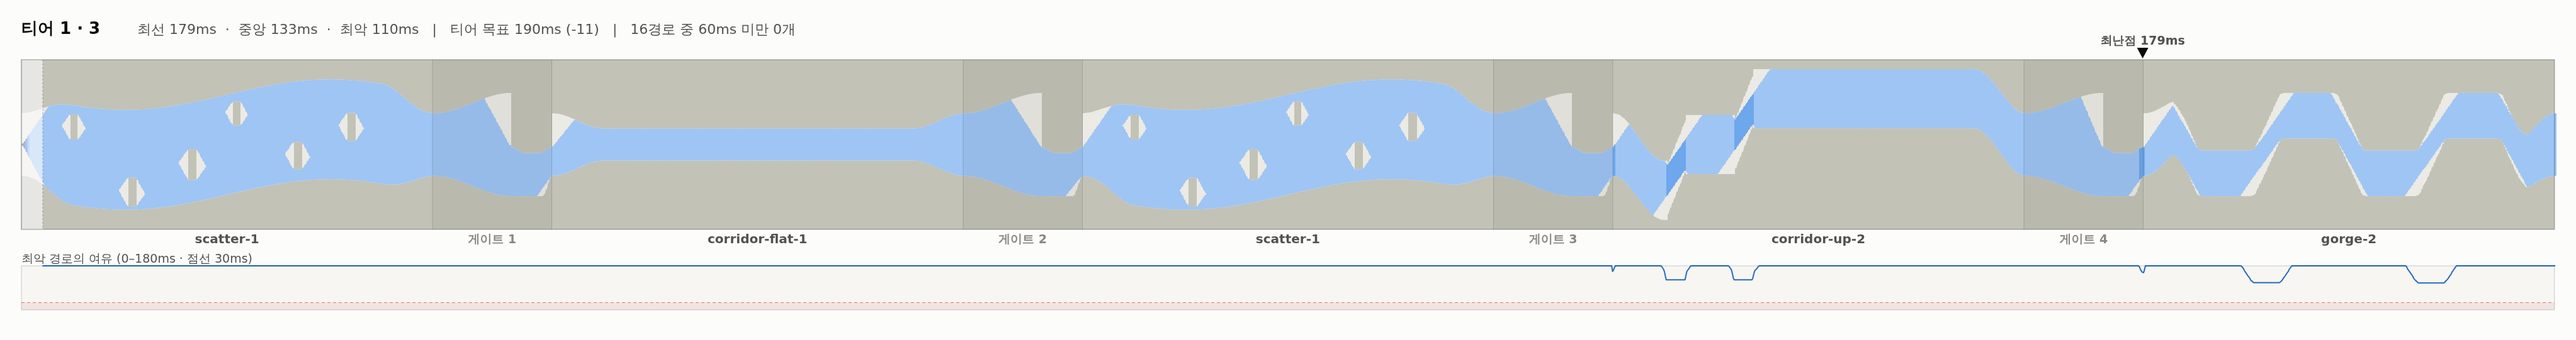
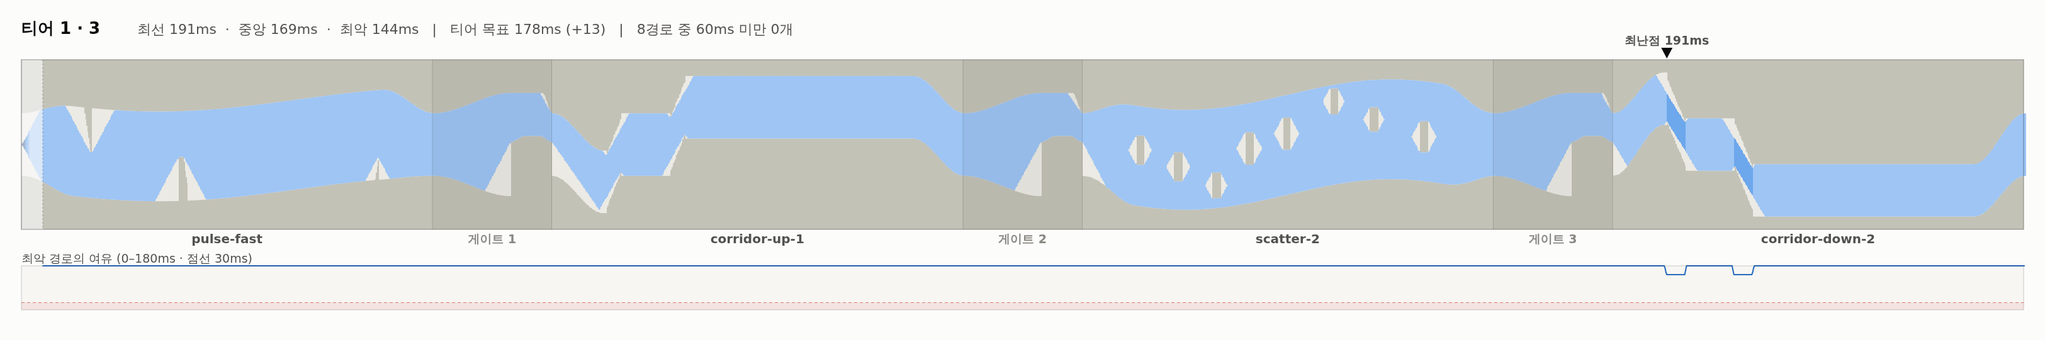
fix(wave-runner): 코스 지도가 목표와 같은 단위를 읽게 한다 · 지도 재생성
수치표가 **티어 곡선을 표준 기체만으로 재고 있었다.** 목표는 0.7.0 부터 기체 4종
평균으로 정의됐으므로 "편차" 열이 단위가 어긋난 값을 내고 있었다 — 실측 191/187/
139/134 로 찍혔는데 같은 코스의 실제 값은 177/170/143/128 이다. `tiers.ts` 가 상수
사본을 금지한 것과 같은 종류의 거짓말이라 같은 값을 다시 잰다.

- `stats.ts` 가 기체 4종의 최선 여유를 재서 평균을 목표와 대 보고, 기체별 값도 함께
  찍는다. 표준 기체 열은 남긴다 — 어느 기체가 튀는지 보려면 둘 다 필요하다
- 자리 수 하드코딩 제거: "60자리" → `STAGE_SECTORS × 12`, 코스 중복 판정 "5자리 중
  4자리" → `STAGE_SECTORS` 와 그 −1
- `page.html` 이 `window.COURSE` 를 파싱 시점에 읽어 비어 있었다. 데이터는 이 파일이
  실행된 뒤 `addScriptTag` 로 주입되므로 값이 아니라 함수여야 한다
- 코스 지도 13장 재생성

결과 — ±2 곡선 177/170/143/128 · ±3 곡선 177/168/140/128, 두 상한 모두 역전 없음.
함정 경로 0 · 코스 중복 0 · 섹터 커버리지 18/18. 병목 열이 티어 1~3 에서 게이트와
진입 회랑을 가리켜, 그 구간의 최소 여유를 섹터가 아니라 게이트가 정한다는 진단이
수치로도 확인된다.

Claude-Session: https://claude.ai/code/session_019UeSMGbwD9uPqq1Pbz8a8p

diff --git a/projects/wave-runner/tests/verify/course-map/stats.ts b/projects/wave-runner/tests/verify/course-map/stats.ts
@@ -12,6 +12,7 @@ import { STAGE_SECTORS, buildStageCourse } from "../../../app/src/game/course";
 import { BASE_TUNING, startYFor } from "../../../app/src/game/engine";
 import { measure } from "../../../app/src/game/geometry";
 import { MAX_TIER, STAGES_PER_TIER } from "../../../app/src/game/meta";
+import { RUNNERS, applyRunner } from "../../../app/src/game/runners";
 import { SECTORS } from "../../../app/src/game/sectors";
 import { solveCourse } from "../../../app/src/game/solver";
 import { PEAK_RUN_NOTE, PEAK_RUN_RULE, targetSlackMs } from "../tiers";
@@ -27,6 +28,10 @@ const SETTLE_X = 24;
 const HUMAN_FLOOR_MS = 30;
 
 const tuningFor = (cap: number) => ({ ...BASE_TUNING, axisMax: cap, axisMin: -cap });
+/** 한 코스에 놓이는 섹터 자리 수 — 12스테이지를 합친 전체 자리 수의 분모가 된다. */
+const SLOTS = STAGE_SECTORS * MAX_TIER * STAGES_PER_TIER;
+/** 코스가 "사실상 같다" 고 볼 일치 자리 수. 자리가 줄면 이 기준도 같이 줄어야 한다. */
+const DUP_SLOTS = STAGE_SECTORS - 1;
 const tradeWith = (t: typeof BASE_TUNING) => (b: Build, tr: { plus: keyof Build; minus: keyof Build }) =>
   applyTrade(b, { plus: tr.plus as AxisKey, minus: tr.minus as AxisKey }, t);
 const lanesOf = (p: number): Array<"top" | "bot"> =>
@@ -35,6 +40,10 @@ const pad = (v: string | number, n: number) => String(v).padStart(n);
 
 interface Row {
   tier: number; no: number; cap: number;
+  /** 기체 4종의 최선 경로 여유 평균. **티어 목표가 정의된 단위가 이것이다** */
+  bestMean: number;
+  /** 기체별 최선 경로 여유 — 어느 기체가 튀는지 보려고 함께 낸다 */
+  perRunner: number[];
   best: number; med: number; worst: number; spread: number;
   under60: number; under30: number;
   bottleneck: string; sectors: string[];
@@ -63,6 +72,21 @@ for (const cap of [2, 3]) {
       }
       all.sort((a, b) => a - b);
 
+      // 티어 목표는 **기체 4종 평균**으로 정의돼 있다(`curate-stages.ts` ⑨). 여기서
+      // 표준 기체만 재서 그 목표와 대 보면 단위가 어긋난 "편차" 가 나온다 — `tiers.ts`
+      // 가 상수 사본을 금지한 것과 같은 종류의 거짓말이라 같은 값을 다시 잰다.
+      const perRunner = RUNNERS.map((runner) => {
+        const rt = applyRunner(tuning, runner);
+        const rtrade = tradeWith(rt);
+        let top = 0;
+        for (let p = 0; p < PATHS; p += 1) {
+          const r = solveCourse(course.pieces, { ...runner.startBuild }, rt, startY, lanesOf(p), rtrade, DT);
+          if (r.passable) top = Math.max(top, r.minSlackSec * 1000);
+        }
+        return Math.round(top);
+      });
+      const bestMean = perRunner.reduce((a, b) => a + b, 0) / perRunner.length;
+
       // 최선 경로를 한 번 더, 이번엔 추적을 켜서 — 통로 활용률과 최난 구간의 길이를 잰다
       const traced = solveCourse(course.pieces, { ...NEUTRAL_BUILD }, tuning, startY, lanesOf(bestPath), trade, DT, true);
       const bn = traced.perPiece.reduce((a, b) => (b.slackSec < a.slackSec ? b : a), traced.perPiece[0]);
@@ -89,6 +113,7 @@ for (const cap of [2, 3]) {
 
       rows.push({
         tier, no, cap,
+        bestMean: Math.round(bestMean), perRunner,
         best: Math.round(bestMs), med: Math.round(all[Math.floor(all.length / 2)]),
         worst: Math.round(all[0]), spread: Math.round(bestMs - all[0]),
         under60: all.filter((v) => v < 60).length,
@@ -108,20 +133,23 @@ for (const cap of [2, 3]) {
   console.log(
     "티어 요구 — " + [1, 2, 3, 4].map((t) => `T${t} ${targetSlackMs(t)}ms · ${PEAK_RUN_NOTE[t]}`).join("  |  ")
   );
-  console.log("스테이지  최선  중앙  최악  차이  <60 <30   목표  편차   통로활용  최난구간  병목");
+  console.log("            ───── 표준 기체 ─────    ── 기체 4종 평균 ──");
+  console.log("스테이지  최선  중앙  최악  차이  <60 <30   평균  목표  편차   통로활용  최난구간  병목");
   for (const r of rows.filter((r) => r.cap === cap)) {
-    const off = r.best - targetSlackMs(r.tier);
+    const off = r.bestMean - targetSlackMs(r.tier);
     console.log(
       `T${r.tier}·${r.no}   ${pad(r.best, 5)} ${pad(r.med, 5)} ${pad(r.worst, 5)} ${pad(r.spread, 5)}` +
-      ` ${pad(r.under60, 4)}${pad(r.under30, 4)}  ${pad(targetSlackMs(r.tier), 5)} ${pad((off >= 0 ? "+" : "") + off, 5)}` +
+      ` ${pad(r.under60, 4)}${pad(r.under30, 4)}  ${pad(r.bestMean, 5)} ${pad(targetSlackMs(r.tier), 5)}` +
+      ` ${pad((off >= 0 ? "+" : "") + off, 5)}` +
       `   ${pad((r.utilisation * 100).toFixed(0) + "%", 6)}  ${pad(r.peakRun, 5)}단위${PEAK_RUN_RULE[r.tier](r.peakRun) ? " " : "⚠"} ${r.bottleneck}`
     );
+    console.log(`          기체별 최선 ${RUNNERS.map((x, i) => `${x.name} ${r.perRunner[i]}`).join(" · ")}`);
   }
   const tiers = [1, 2, 3, 4].map((t) => {
-    const v = rows.filter((r) => r.cap === cap && r.tier === t).map((r) => r.best);
+    const v = rows.filter((r) => r.cap === cap && r.tier === t).map((r) => r.bestMean);
     return { t, avg: v.reduce((a, b) => a + b, 0) / v.length, v };
   });
-  console.log("\n티어 곡선 (최선 여유 평균)");
+  console.log("\n티어 곡선 (기체 4종 평균의 티어 평균 — 목표가 정의된 단위)");
   for (const { t, avg, v } of tiers) {
     console.log(`  티어 ${t}  목표 ${pad(targetSlackMs(t), 3)}ms   실측 ${pad(avg.toFixed(0), 3)}ms  [${v.join(", ")}]`);
   }
@@ -129,25 +157,28 @@ for (const cap of [2, 3]) {
   if (inverted.length) console.log(`  ⚠ 곡선 역전: ` + inverted.map((a) => `티어 ${a.t}이 티어 ${a.t - 1}보다 쉽다`).join(", "));
 }
 
-console.log("\n═══ 코스 중복 (±2 기준, 5자리 중 4자리 이상 일치) ═══");
+console.log(`\n═══ 코스 중복 (±2 기준, ${STAGE_SECTORS}자리 중 ${DUP_SLOTS}자리 이상 일치) ═══`);
 const s2 = rows.filter((r) => r.cap === 2);
 let dup = 0;
 for (let i = 0; i < s2.length; i += 1)
   for (let j = i + 1; j < s2.length; j += 1) {
     const n = s2[i].sectors.filter((v, k) => v === s2[j].sectors[k]).length;
-    if (n >= 4) {
+    if (n >= DUP_SLOTS) {
       dup += 1;
-      console.log(`  T${s2[i].tier}·${s2[i].no} vs T${s2[j].tier}·${s2[j].no}   ${n === 5 ? "완전 동일" : `${n}/5 일치`}`);
+      console.log(
+        `  T${s2[i].tier}·${s2[i].no} vs T${s2[j].tier}·${s2[j].no}   ` +
+        `${n === STAGE_SECTORS ? "완전 동일" : `${n}/${STAGE_SECTORS} 일치`}`
+      );
     }
   }
 if (!dup) console.log("  없음");
 
-console.log("\n═══ 섹터 사용 빈도 (60자리) ═══");
+console.log(`\n═══ 섹터 사용 빈도 (${SLOTS}자리) ═══`);
 const freq = new Map<string, number>();
 for (const r of s2) for (const id of r.sectors) freq.set(id, (freq.get(id) ?? 0) + 1);
 for (const s of SECTORS) {
   const n = freq.get(s.id) ?? 0;
-  console.log(`  ${s.id.padEnd(15)} ${pad(n, 2)}회  ${((n / 60) * 100).toFixed(0).padStart(2)}%  ${"█".repeat(n)}`);
+  console.log(`  ${s.id.padEnd(15)} ${pad(n, 2)}회  ${((n / SLOTS) * 100).toFixed(0).padStart(2)}%  ${"█".repeat(n)}`);
 }
 const unused = SECTORS.filter((s) => !freq.has(s.id)).map((s) => s.id);
 if (unused.length) console.log(`  ⚠ 한 번도 쓰이지 않음: ${unused.join(", ")}`);

diff --git a/projects/wave-runner/tests/verify/course-map/page.html b/projects/wave-runner/tests/verify/course-map/page.html
@@ -15,8 +15,11 @@
 <script>
 // 코스 구조(경로 수·게이트 수·섹터 수)는 extract.ts 가 실어 보낸다. 그림이 제 손으로
 // 세면 STAGE_SECTORS 를 바꿀 때 설명문만 옛 수치로 남는다 — 실제로 "16경로" 가 그렇게 남아 있었다.
-const CO = window.COURSE ?? { paths: 0, gates: 0, sectors: 0 };
-const STAGES = window.STAGES ?? [];
+//
+// 데이터는 이 파일이 실행된 **뒤에** addScriptTag 로 주입되므로, 파싱 시점에 읽으면
+// 비어 있다. 그래서 값이 아니라 함수다 — 그리는 순간에 읽는다.
+const CO = () => window.COURSE ?? { paths: 0, gates: 0, sectors: 0 };
+const STAGES = () => window.STAGES ?? [];
 const C = {
   surface:"#fcfcfb", ink:"#0b0b0b", ink2:"#52514e", muted:"#898781",
   grid:"#e1e0d9", baseline:"#c3c2b7", critical:"#d03b3b",
@@ -54,7 +57,7 @@ function drawStage(ctx, st, ox, oy, SX, SY, opts){
   const off = s.best - s.target;
   const head = `최선 ${s.best}ms  ·  중앙 ${s.med}ms  ·  최악 ${s.worst}ms`
              + `   |   티어 목표 ${s.target}ms (${off>=0?"+":""}${off})`
-             + `   |   ${CO.paths}경로 중 60ms 미만 ${s.under60}개`
+             + `   |   ${CO().paths}경로 중 60ms 미만 ${s.under60}개`
              + (s.under30 ? ` · 30ms 미만 ${s.under30}개` : "");
     ctx.fillText(head, ox + Math.round(108*fs), oy + Math.round(14*fs));
   if (s.under30) {
@@ -211,9 +214,9 @@ function drawLegend(ctx, ox, oy, fs){
   ctx.fillText("빨강 — 여유 30ms 미만. 사람의 탭 타이밍 산포보다 좁아 사실상 통과 불가", ox, y);
   y += Math.round(19*fs);
   ctx.fillStyle = C.ink2; ctx.font = f(400,12.5);
-  ctx.fillText(`세로는 월드 높이 100 전체. 가로는 코스 전체(섹터 ${CO.sectors} + 게이트 ${CO.gates}, 약 ${Math.round(STAGES[0].finishX)}단위). 아바타 반지름을 뺀 중심 좌표 기준.`, ox, y);
+  ctx.fillText(`세로는 월드 높이 100 전체. 가로는 코스 전체(섹터 ${CO().sectors} + 게이트 ${CO().gates}, 약 ${Math.round(STAGES()[0].finishX)}단위). 아바타 반지름을 뺀 중심 좌표 기준.`, ox, y);
   y += Math.round(18*fs);
-  ctx.fillText(`본 스트립은 ${CO.paths}경로 중 최선 경로, 아래 선은 최악 경로. 표준 기체 · 축 상한 ±2(처음 만나는 조건).`, ox, y);
+  ctx.fillText(`본 스트립은 ${CO().paths}경로 중 최선 경로, 아래 선은 최악 경로. 표준 기체 · 축 상한 ±2(처음 만나는 조건).`, ox, y);
   y += Math.round(18*fs);
   ctx.fillText("왼쪽 끝 흐린 구간은 출발 정착 구간이다 — 출발 집합이 점 하나라 좁게 나오는 것이지 난이도가 아니다.", ox, y);
   return y - oy + Math.round(10*fs);
